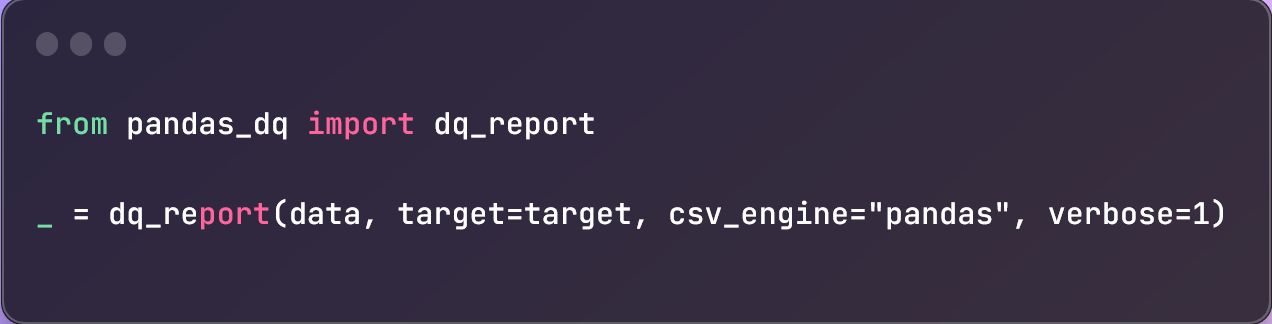
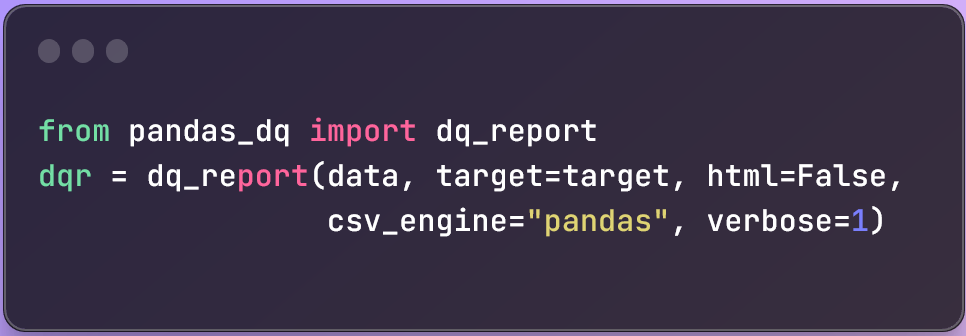
Adding HTML report functionality

Changed region(s): [[0.0, 0.0, 1.0, 1.0], [0.0621, 0.6173, 0.9627, 0.7099]]

diff --git a/README.md b/README.md
@@ -139,7 +139,7 @@ pip install -r requirements.txt
 
 ```
 from pandas_dq import dq_report
-dq_report(data, target=target, html=False, csv_engine="pandas", verbose=1)
+dqr = dq_report(data, target=target, html=False, csv_engine="pandas", verbose=1)
 ```
 
 It displays a data quality report like this inline or in HTML format (and it saves the HTML to your machine):
